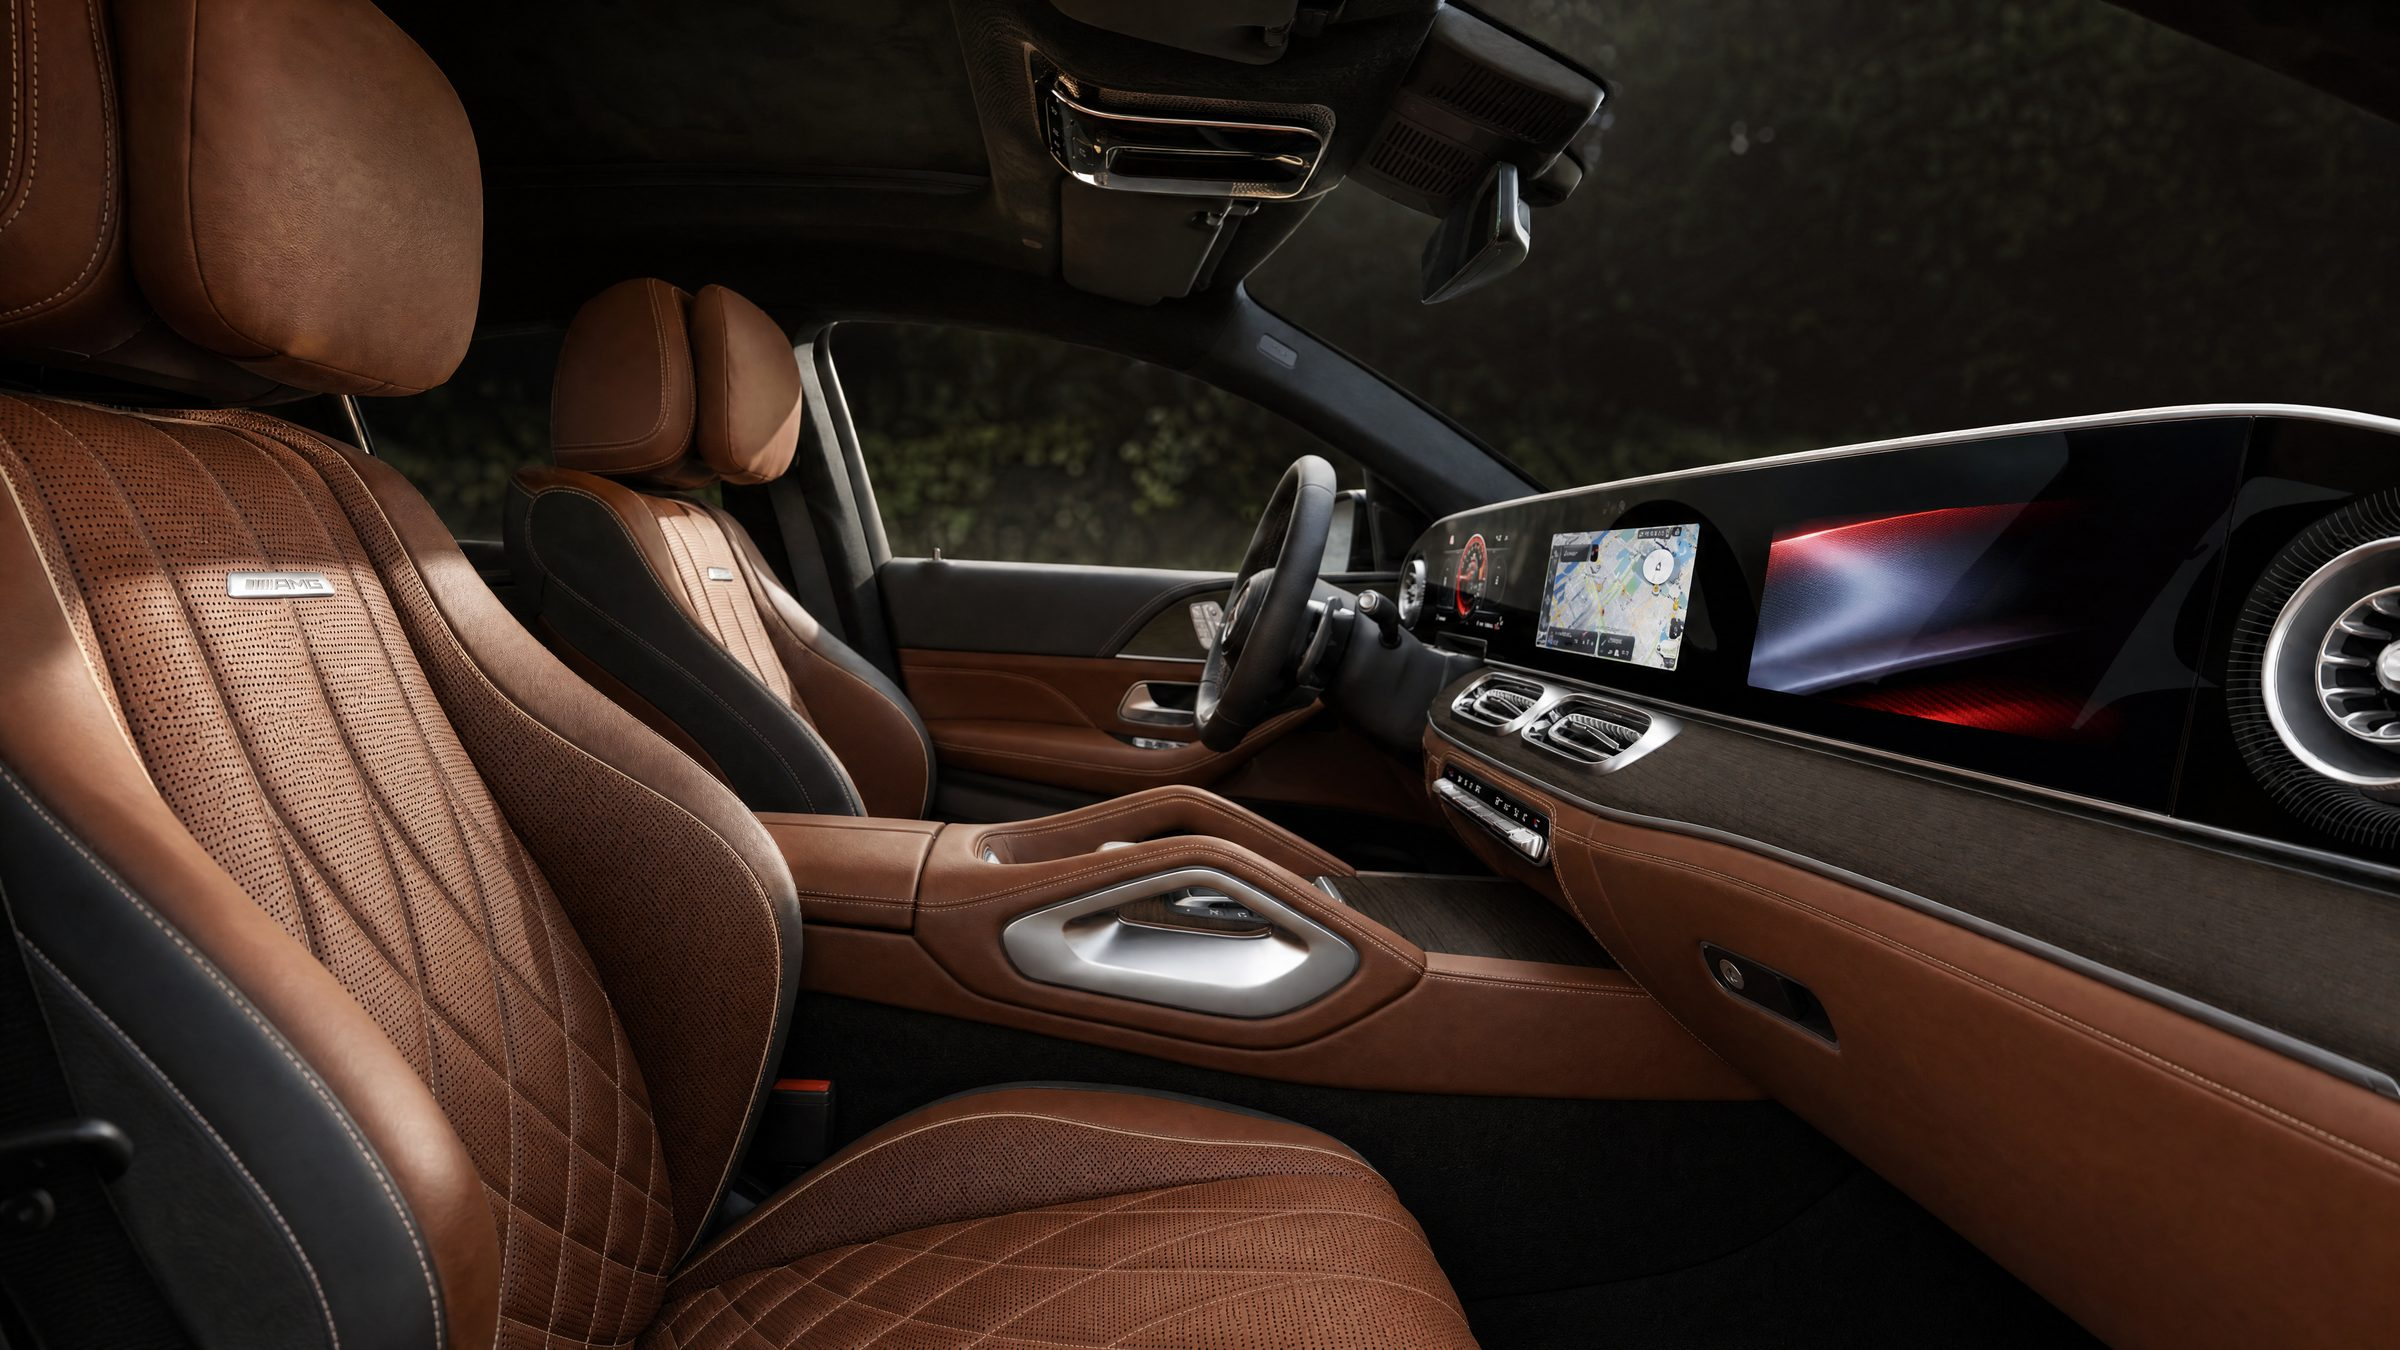
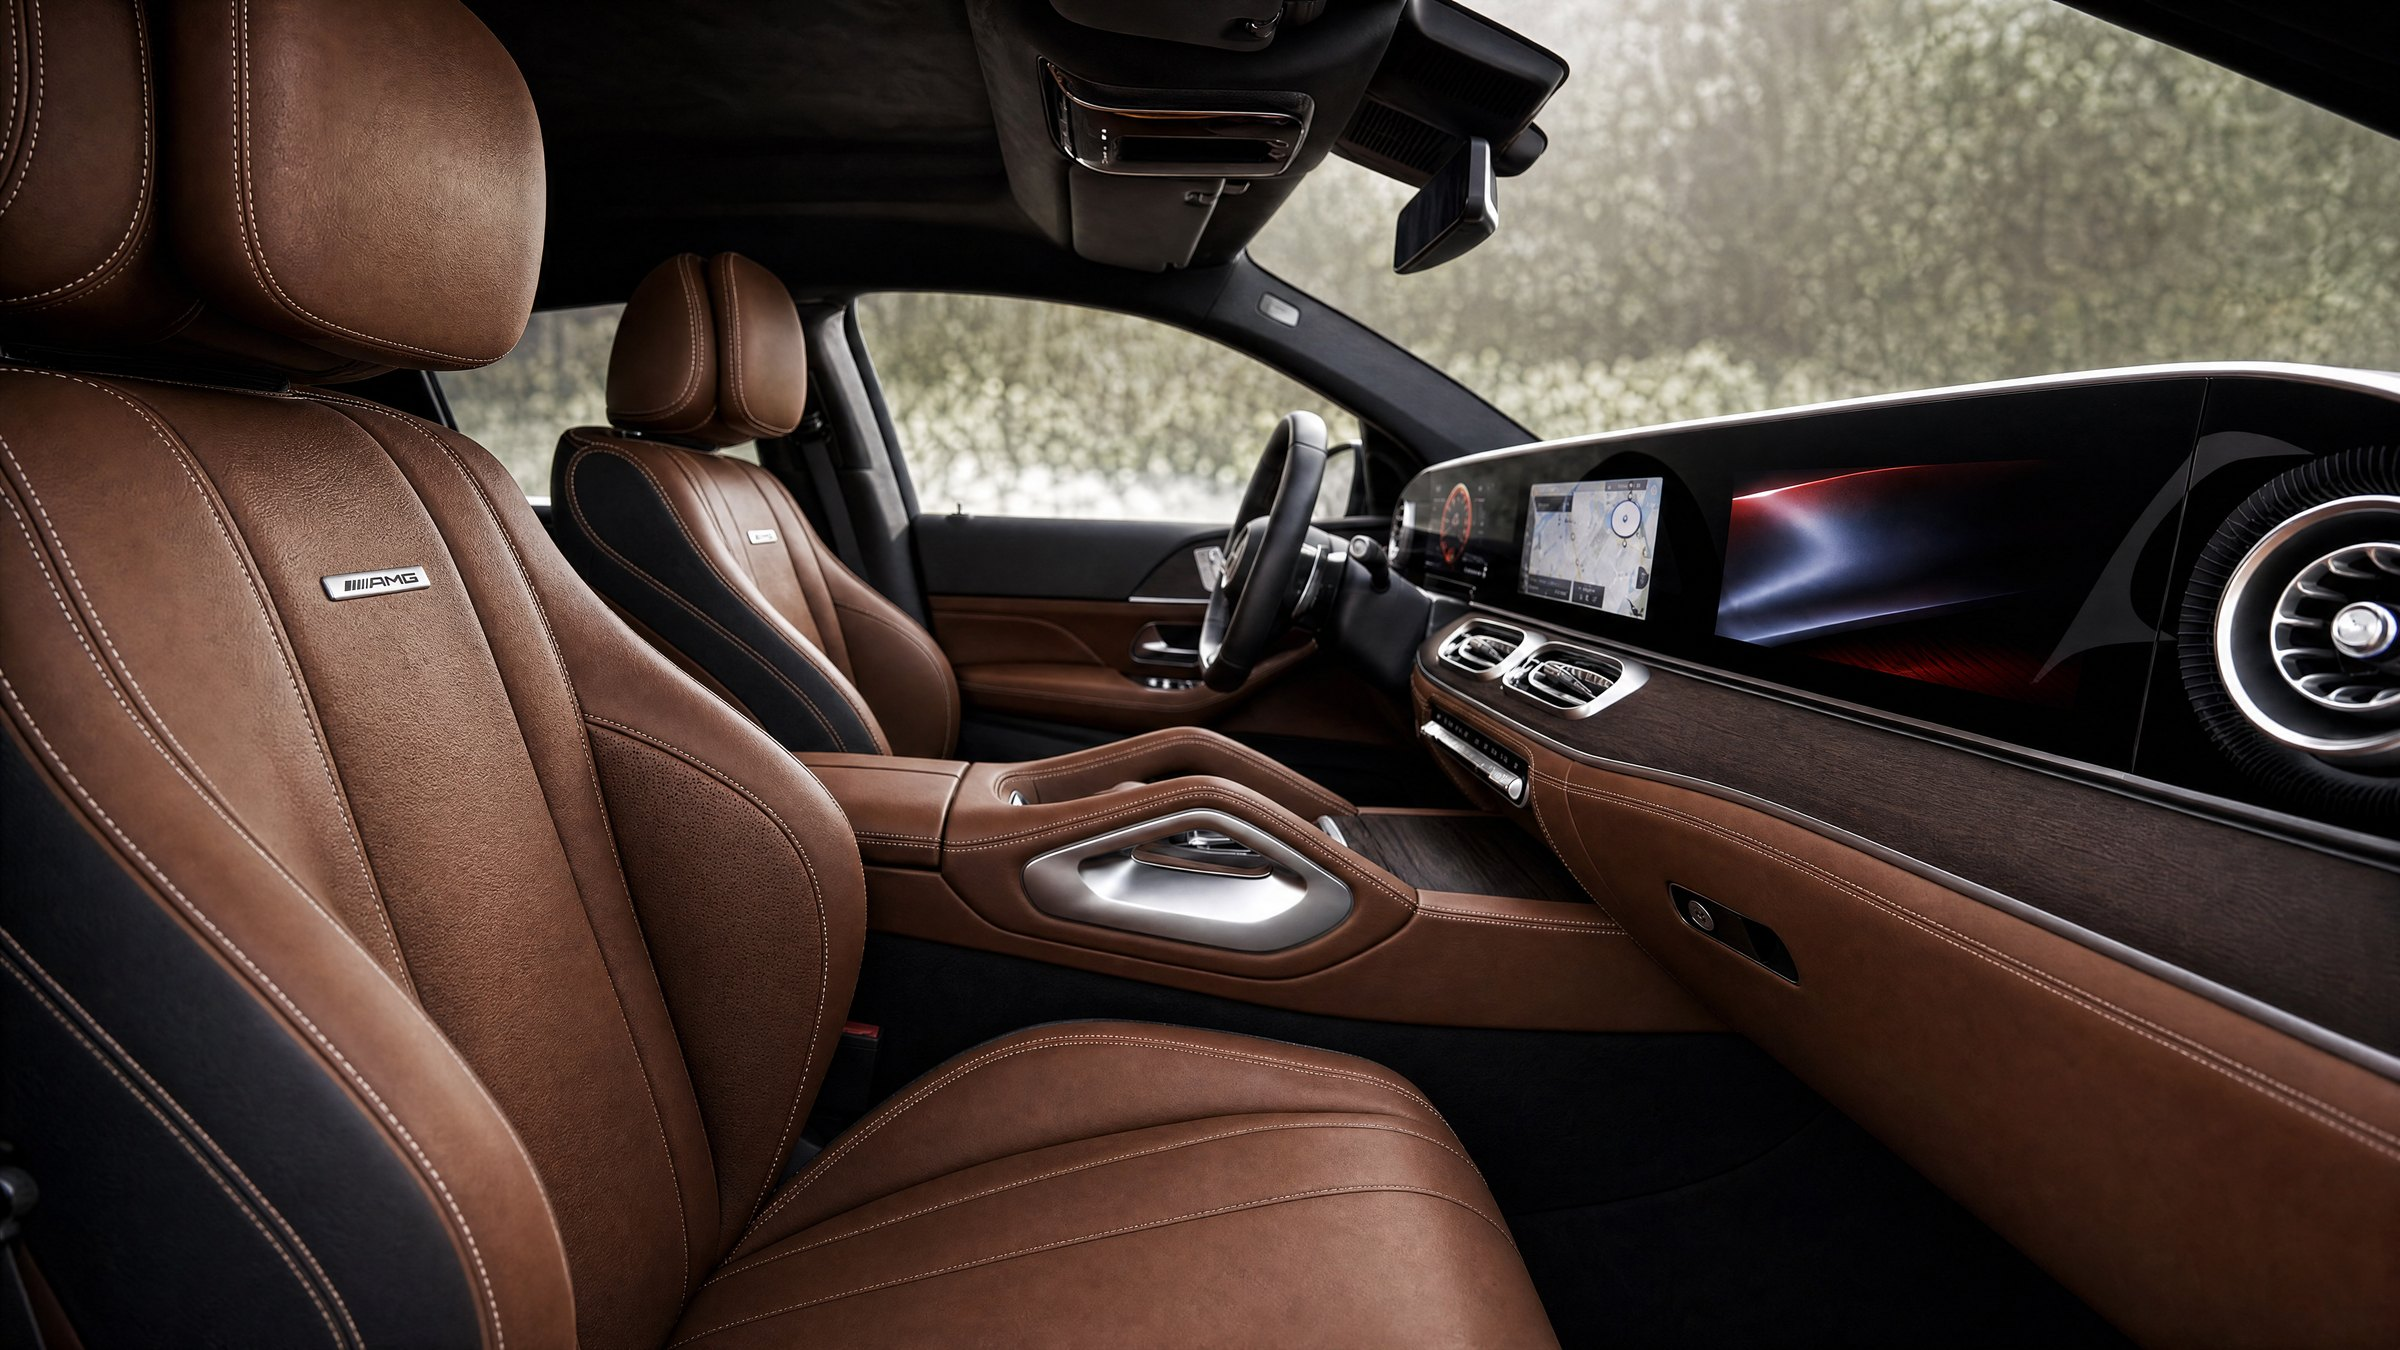
Hero: swap to new AMG brown-leather interior image (v5)

diff --git a/index.html b/index.html
@@ -98,7 +98,7 @@
     <!-- HERO -->
     <section id="top" class="hero">
       <div class="hero__media" data-parallax="0.18">
-        <img class="hero__img" src="assets/hero.jpg?v=4" alt="Interior automóvel estofado em pele acolchoada — matéria nobre" fetchpriority="high"
+        <img class="hero__img" src="assets/hero.jpg?v=5" alt="Interior automóvel estofado em pele acolchoada — matéria nobre" fetchpriority="high"
              onerror="this.style.display='none'">
       </div>
       <div class="hero__overlay" aria-hidden="true"></div>